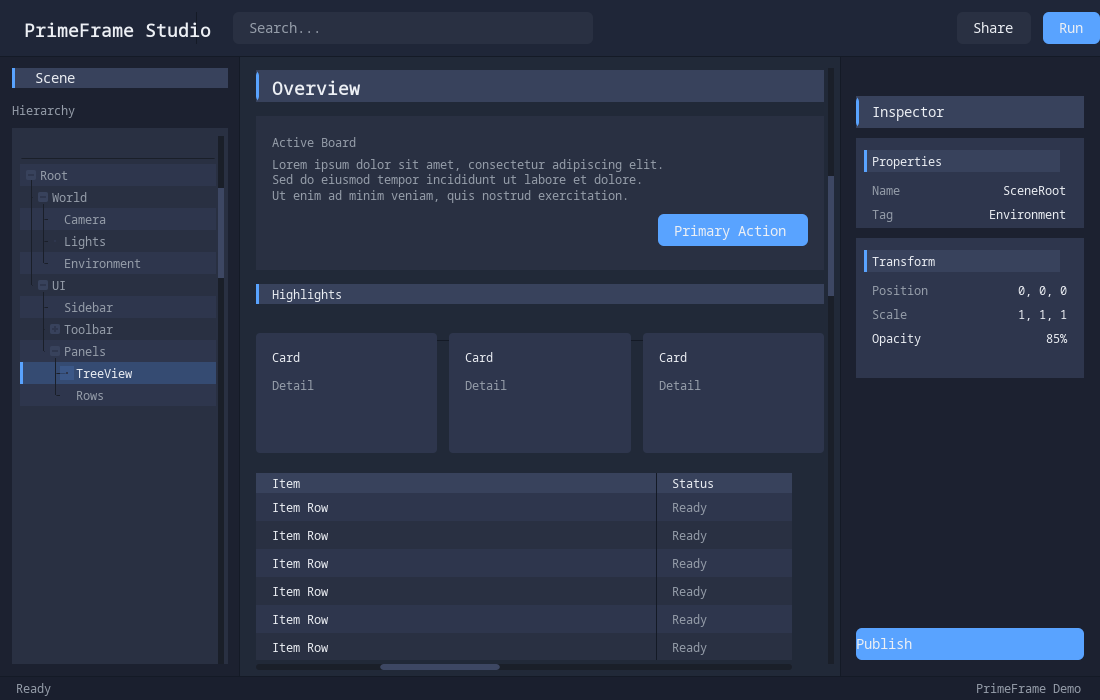
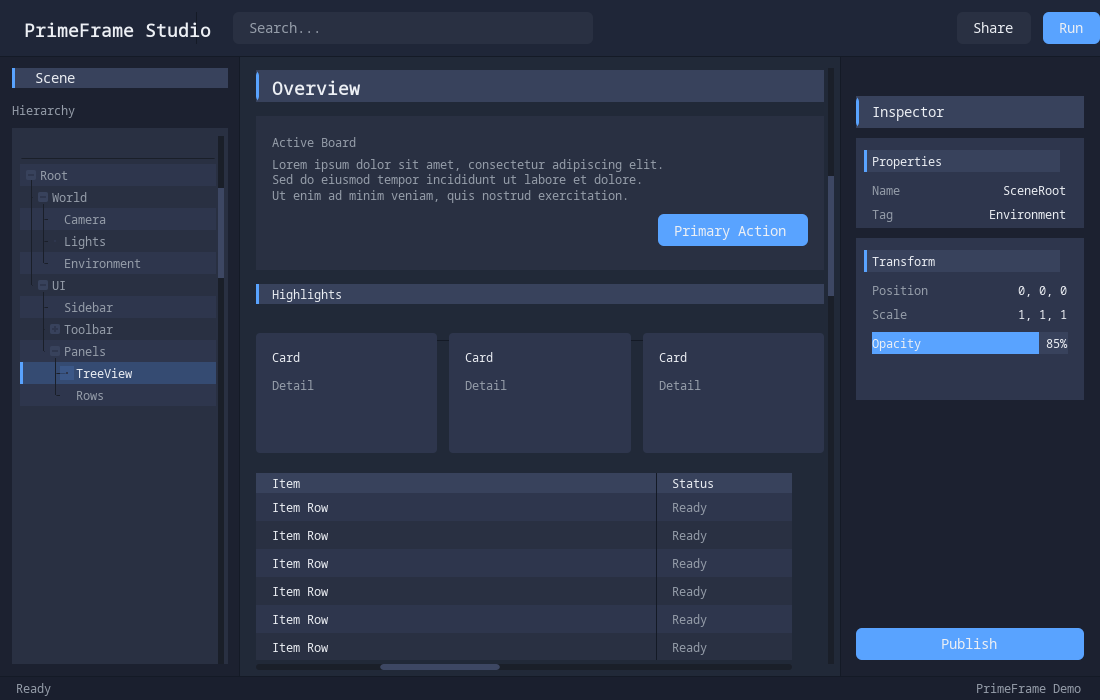
Adjust opacity row overlay in render demo

diff --git a/examples/primestage_render_demo.cpp b/examples/primestage_render_demo.cpp
@@ -298,7 +298,7 @@ int main(int argc, char** argv) {
 
     SizeSpec transformSize;
     transformSize.preferredWidth = sectionWidth;
-    transformSize.preferredHeight = UiDefaults::PanelHeightM;
+    transformSize.preferredHeight = UiDefaults::PanelHeightM + opacityBarH;
     SectionPanel transformPanel = column.createSectionPanel(transformSize, "Transform");
 
     SizeSpec propsListSize;
@@ -317,21 +317,32 @@ int main(int argc, char** argv) {
     transformStack.createPropertyList(transformListSize,
                                       {{"Position", "0, 0, 0"}, {"Scale", "1, 1, 1"}});
 
-    SizeSpec opacityRowSize;
-    opacityRowSize.preferredWidth = transformPanel.contentBounds.width;
-    opacityRowSize.preferredHeight = opacityBarH;
-    transformStack.createPropertyRow(opacityRowSize, "Opacity", "85%");
+    StackSpec opacityOverlaySpec;
+    opacityOverlaySpec.size.preferredWidth = transformPanel.contentBounds.width;
+    opacityOverlaySpec.size.preferredHeight = opacityBarH;
+    UiNode opacityOverlay = transformStack.createOverlay(opacityOverlaySpec);
 
     SizeSpec opacityBarSize;
     opacityBarSize.preferredWidth = transformPanel.contentBounds.width;
     opacityBarSize.preferredHeight = opacityBarH;
-    transformStack.createProgressBar(opacityBarSize, 0.85f);
+    opacityOverlay.createProgressBar(opacityBarSize, 0.85f);
+
+    PropertyListSpec opacitySpec;
+    opacitySpec.size.preferredWidth = transformPanel.contentBounds.width;
+    opacitySpec.size.preferredHeight = opacityBarH;
+    opacitySpec.rowHeight = opacityBarH;
+    opacitySpec.rowGap = 0.0f;
+    opacitySpec.labelRole = TextRole::SmallBright;
+    opacitySpec.valueRole = TextRole::SmallBright;
+    opacitySpec.rows = {{"Opacity", "85%"}};
+    opacityOverlay.createPropertyList(opacitySpec);
 
     SizeSpec footerSpacer;
     footerSpacer.stretchY = 1.0f;
     column.createSpacer(footerSpacer);
 
     SizeSpec publishSize;
+    publishSize.preferredWidth = sectionWidth;
     publishSize.stretchX = 1.0f;
     column.createButton("Publish",
                         ButtonVariant::Primary,
